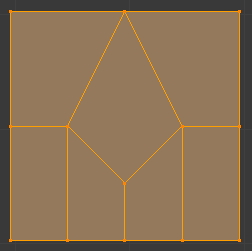
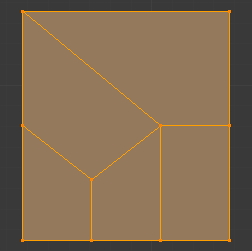
update

diff --git a/quadbridge.py b/quadbridge.py
@@ -6,13 +6,14 @@
 #
 # Version history:
 #   0.1.0. (2018.07.21) - start dev
+#   0.2.0. (2018.08.18) - added 3 more bridges types
 
 
 bl_info = {
     'name': 'Bridge2-4',
     'category': 'Mesh',
     'author': 'Nikita Akimov',
-    'version': (0, 1, 0),
+    'version': (0, 2, 0),
     'blender': (2, 79, 0),
     'location': 'The 3D_View window - T-panel - the 1D tab',
     'wiki_url': 'https://github.com/Korchy/1d_quad_bridge',
@@ -25,11 +26,13 @@ import bmesh
 import bpy.utils.previews
 import os
 from inspect import getsourcefile
+from abc import ABC, abstractmethod
 
 
-class QuadBridge:
-    @staticmethod
-    def make_bridge(context):
+class QuadBridge(ABC):
+
+    @classmethod
+    def make_bridge(cls, context):
         if context.selected_objects:
             bpy.ops.object.mode_set(mode='OBJECT')
             bm = bmesh.new()
@@ -42,22 +45,36 @@ class QuadBridge:
                 src_loop = loops[0] if len(loops[0]) < len(loops[1]) else loops[1]
                 dest_loop = loops[0] if src_loop == loops[1] else loops[1]
                 # count levels with src and dest loops correction
-                src_loop, dest_loop, levels = __class__.levels(src_loop, dest_loop)
+                # src_loop, dest_loop, levels = __class__.levels(src_loop, dest_loop)
+                src_loop, dest_loop, levels = cls.levels(src_loop, dest_loop)
                 # print('src_loop', src_loop, ' len = ', len(src_loop))
                 # print('dest_loop', dest_loop, ' len = ', len(dest_loop))
                 # print('levels', levels)
                 if levels > 0:
                     for level in range(levels):
                         # print('current level: ', level)
-                        src_loop = __class__.build_level(bm, src_loop, dest_loop, level, levels)
+                        src_loop = cls.build_level(bm, src_loop, dest_loop, level, levels)
                         # print('next src_loop ', src_loop)
             bm.to_mesh(context.object.data)
             bm.free()
             bpy.ops.object.mode_set(mode='EDIT')
 
-    @staticmethod
-    def levels(src_loop, dest_loop):
-        # count levels with src and dest loops correction (cutting redundant verts from the end of the lists)
+    @abstractmethod
+    def levels(cls, src_loop, dest_loop):
+        # count levels and make src_loop and dest loop correction (cutting redundant verts from the end of the lists)
+        return (src_loop, dest_loop, 0)
+
+    @abstractmethod
+    def build_level(cls, bm, src_loop, dest_loop, level, levels):
+        # Build 1 level of the bridge
+        # returns top line of the builded level (new src_loop for the next level)
+        return []
+
+
+class QuadBirdge_3_5(QuadBridge):
+
+    @classmethod
+    def levels(cls, src_loop, dest_loop):
         if src_loop and dest_loop:
             levels = 0
             cor_src_loop = src_loop
@@ -78,9 +95,8 @@ class QuadBridge:
                 cor_dest_loop = dest_loop[:src_len + 1]
             return (cor_src_loop, cor_dest_loop, levels)
 
-    @staticmethod
-    def build_level(bm, src_loop, dest_loop, level, levels):
-        # returns top line of the builded level (new src_loop for the next level)
+    @classmethod
+    def build_level(cls, bm, src_loop, dest_loop, level, levels):
         top_line = []
         prev_block = None
         for step in range(int((len(src_loop) - 1) / 2)):
@@ -263,6 +279,18 @@ class QuadBridge:
             return src_loop[2].co + direction * length
 
 
+class QuadBridges:
+
+    bridges = [['3-5', 'b00.jpg', QuadBirdge_3_5],
+               ['2-4', 'b01.jpg', None],
+               ]
+
+    @staticmethod
+    def bridge(bridge_id, context):
+        if __class__.bridges[bridge_id][2]:
+            __class__.bridges[bridge_id][2].make_bridge(context)
+
+
 class BmEx:
     @staticmethod
     def get_verts_loops_from_selection(bm):
@@ -324,16 +352,12 @@ class QuadBridgeOp(bpy.types.Operator):
     )
 
     def execute(self, context):
-        # QuadBridge.make_bridge(context, self.bridge_id)
-        QuadBridge.make_bridge(context)
+        QuadBridges.bridge(self.bridge_id, context)
         return {'FINISHED'}
 
 
 class QuadBridgePreviews:
 
-    previews = [['01', '3-5', 'b01.jpg'],
-                ['02', '2-4', 'b02.jpg'],
-                ]
     items_list = None
 
     @staticmethod
@@ -349,10 +373,10 @@ class QuadBridgePreviews:
 
     @staticmethod
     def create_previews():
-        for preview in __class__.previews:
-            path = __class__.get_preview_path(preview[2])
+        for i, bridge in enumerate(QuadBridges.bridges):
+            path = __class__.get_preview_path(bridge[1])
             thumb = __class__.items_list.load(path, path, 'IMAGE')
-            __class__.items_list.items.append((preview[0], preview[1], '', thumb.icon_id, int(preview[0])))
+            __class__.items_list.items.append((str(i), bridge[0], '', thumb.icon_id, i))
 
     @staticmethod
     def get_previews(self, context):
